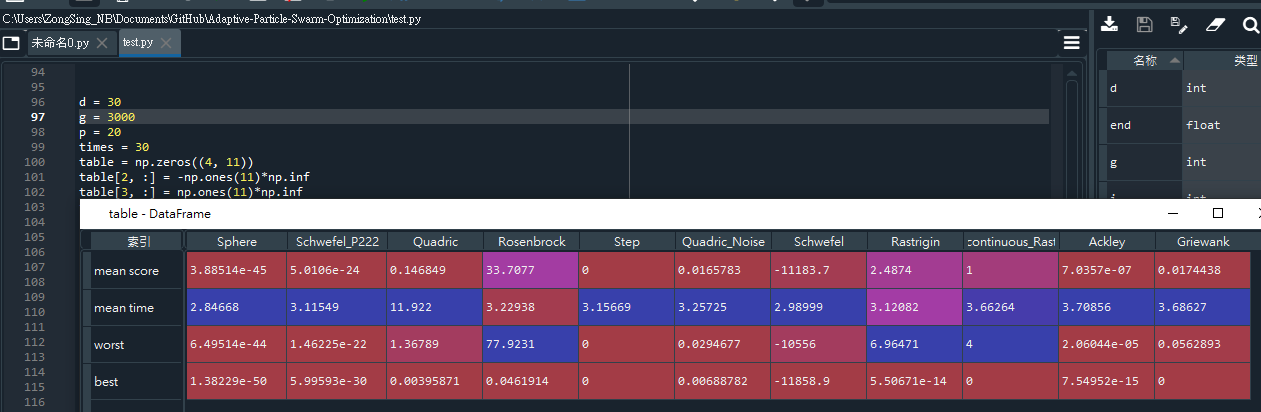
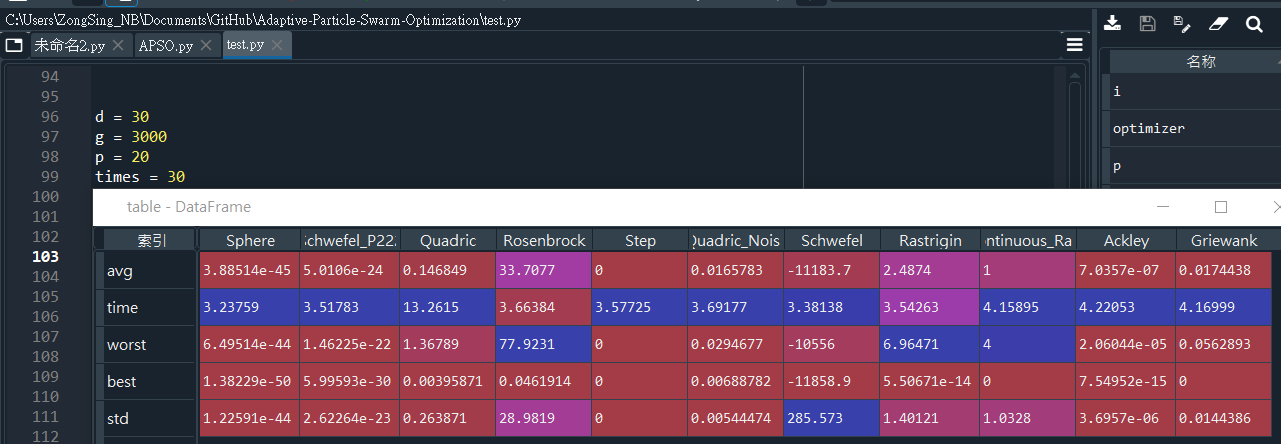
2020.08.20

diff --git a/test.py b/test.py
@@ -97,9 +97,10 @@ d = 30
 g = 3000
 p = 20
 times = 30
-table = np.zeros((4, 11))
+table = np.zeros((5, 11))
 table[2, :] = -np.ones(11)*np.inf
 table[3, :] = np.ones(11)*np.inf
+ALL = np.zeros((times, 11))
 for i in range(times):
     x_max = 100*np.ones(d)
     x_min = -100*np.ones(d)
@@ -112,6 +113,7 @@ for i in range(times):
     if optimizer.gBest_score<table[3, 0]: table[3, 0] = optimizer.gBest_score
     table[0, 0] += optimizer.gBest_score
     table[1, 0] += end - start 
+    ALL[i, 0] = optimizer.gBest_score
 
 
     x_max = 10*np.ones(d)
@@ -125,6 +127,7 @@ for i in range(times):
     if optimizer.gBest_score<table[3, 1]: table[3, 1] = optimizer.gBest_score
     table[0, 1] += optimizer.gBest_score
     table[1, 1] += end - start  
+    ALL[i, 1] = optimizer.gBest_score
 
     
     x_max = 100*np.ones(d)
@@ -138,6 +141,7 @@ for i in range(times):
     if optimizer.gBest_score<table[3, 2]: table[3, 2] = optimizer.gBest_score
     table[0, 2] += optimizer.gBest_score
     table[1, 2] += end - start
+    ALL[i, 2] = optimizer.gBest_score
   
  
     x_max = 10*np.ones(d)
@@ -151,6 +155,7 @@ for i in range(times):
     if optimizer.gBest_score<table[3, 3]: table[3, 3] = optimizer.gBest_score  
     table[0, 3] += optimizer.gBest_score
     table[1, 3] += end - start   
+    ALL[i, 3] = optimizer.gBest_score
 
    
     x_max = 100*np.ones(d)
@@ -164,6 +169,7 @@ for i in range(times):
     if optimizer.gBest_score<table[3, 4]: table[3, 4] = optimizer.gBest_score  
     table[0, 4] += optimizer.gBest_score
     table[1, 4] += end - start
+    ALL[i, 4] = optimizer.gBest_score
   
   
     x_max = 1.28*np.ones(d)
@@ -177,6 +183,7 @@ for i in range(times):
     if optimizer.gBest_score<table[3, 5]: table[3, 5] = optimizer.gBest_score   
     table[0, 5] += optimizer.gBest_score
     table[1, 5] += end - start
+    ALL[i, 5] = optimizer.gBest_score
  
  
     x_max = 500*np.ones(d)
@@ -190,6 +197,7 @@ for i in range(times):
     if optimizer.gBest_score<table[3, 6]: table[3, 6] = optimizer.gBest_score   
     table[0, 6] += optimizer.gBest_score
     table[1, 6] += end - start
+    ALL[i, 6] = optimizer.gBest_score
   
 
     x_max = 5.12*np.ones(d)
@@ -203,6 +211,7 @@ for i in range(times):
     if optimizer.gBest_score<table[3, 7]: table[3, 7] = optimizer.gBest_score   
     table[0, 7] += optimizer.gBest_score
     table[1, 7] += end - start  
+    ALL[i, 7] = optimizer.gBest_score
 
 
     x_max = 5.12*np.ones(d)
@@ -216,6 +225,7 @@ for i in range(times):
     if optimizer.gBest_score<table[3, 8]: table[3, 8] = optimizer.gBest_score  
     table[0, 8] += optimizer.gBest_score
     table[1, 8] += end - start
+    ALL[i, 8] = optimizer.gBest_score
   
  
     x_max = 32*np.ones(d)
@@ -229,6 +239,7 @@ for i in range(times):
     if optimizer.gBest_score<table[3, 9]: table[3, 9] = optimizer.gBest_score  
     table[0, 9] += optimizer.gBest_score
     table[1, 9] += end - start
+    ALL[i, 9] = optimizer.gBest_score
    
  
     x_max = 600*np.ones(d)
@@ -242,12 +253,14 @@ for i in range(times):
     if optimizer.gBest_score<table[3, 10]: table[3, 10] = optimizer.gBest_score  
     table[0, 10] += optimizer.gBest_score
     table[1, 10] += end - start  
+    ALL[i, 10] = optimizer.gBest_score
     
     print(i+1)
     
     
 table[:2, :] = table[:2, :] / times
+table[4, :] = np.std(ALL, axis=0)
 table = pd.DataFrame(table)
 table.columns=['Sphere', 'Schwefel_P222', 'Quadric', 'Rosenbrock', 'Step', 'Quadric_Noise', 'Schwefel', 
                 'Rastrigin', 'Noncontinuous_Rastrigin', 'Ackley', 'Griewank']
-table.index = ['mean score', 'mean time', 'worst', 'best']
+table.index = ['avg', 'time', 'worst', 'best', 'std']
